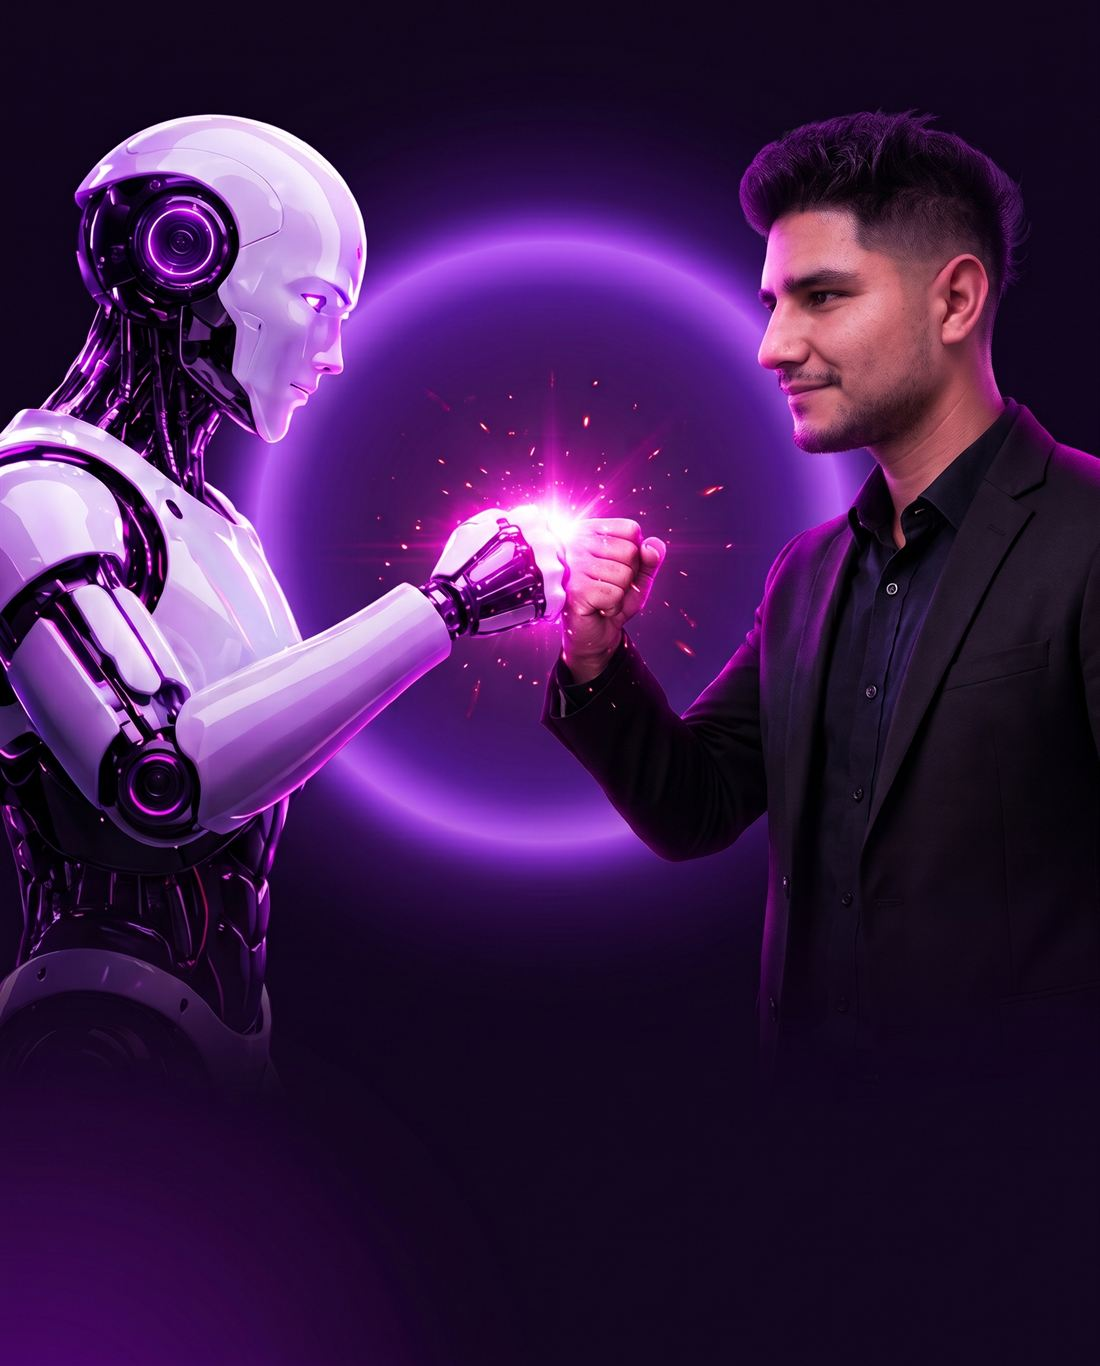
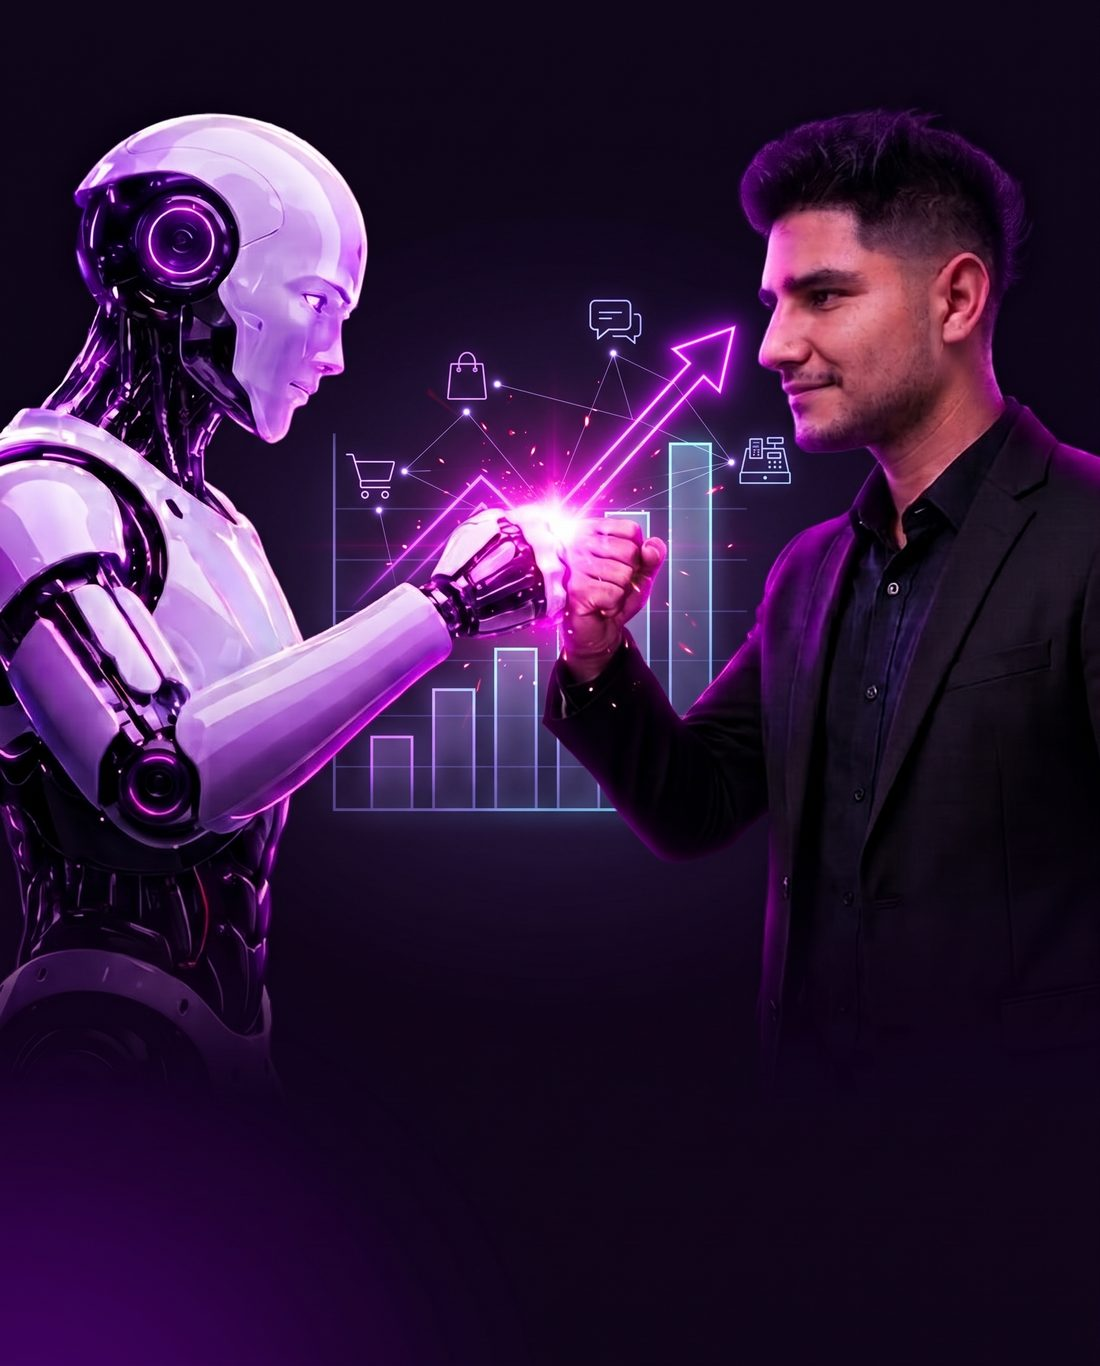
Punto de control antes de aplicar el estilo de los flyers
- Formulario conectado a la función inscripcion-evento (Supabase, schema cerrado
  evento_caeia). Sin dirección configurada solo simula en desarrollo.
- Función inscripcion-evento con validación, duplicados, campo trampa y límite por IP.
- Imagen del hero reemplazada por la versión nueva del flyer.

diff --git a/supabase/functions/inscripcion-evento/index.ts b/supabase/functions/inscripcion-evento/index.ts
@@ -1,0 +1,153 @@
+// Edge Function: recibe las inscripciones al evento del 18/11/2026 y las guarda en el schema
+// cerrado `evento_caeia` del proyecto Sistema NIKI. NO toca `public` ni nada de CAEIA.
+//
+// Despliegue (solo cuando Axel lo pida): verify_jwt = false, porque la página es pública y no lleva
+// ninguna clave en el navegador. Variables de entorno (Secrets de la función):
+//   - SUPABASE_DB_URL      → la pone Supabase sola.
+//   - ALLOWED_ORIGINS      → direcciones desde las que se acepta el formulario, separadas por coma
+//                            (ej.: https://evento.caeia.app). Sin esto solo acepta localhost.
+//   - IP_SALT              → texto secreto largo y al azar, para guardar un hash de la IP y no la IP.
+//   - RATE_LIMIT_MAX       → (opcional) intentos por IP cada 10 minutos. Por defecto 30.
+//
+// Por qué conexión directa y no supabase-js: el schema `evento_caeia` no está expuesto a la API
+// (cambiar eso afectaría a CAEIA), así que se escribe con SQL directo y consultas parametrizadas.
+
+import postgres from 'npm:postgres@3.4.5'
+
+const TIPOS = ['Comerciante', 'Monotributista', 'Responsable Inscripto', 'Contador/a', 'Otro']
+const FACTURAS = ['No facturo', 'Menos de 10', 'Entre 10 y 50', 'Más de 50']
+const COMO = [
+  'Desde el portal de ARCA',
+  'Con una planilla de Excel',
+  'Con otro sistema o app',
+  'Me factura mi contador',
+  'Otra forma',
+]
+
+const MAX_BODY = 8_000
+const RATE_WINDOW_MIN = 10
+const RATE_MAX = Number(Deno.env.get('RATE_LIMIT_MAX') ?? '30') || 30
+
+const ALLOWED_ORIGINS = (
+  Deno.env.get('ALLOWED_ORIGINS') ??
+  'http://localhost:5173,http://127.0.0.1:5173,http://localhost:4173,http://127.0.0.1:4173'
+)
+  .split(',')
+  .map((s) => s.trim().replace(/\/$/, ''))
+  .filter(Boolean)
+
+const sql = postgres(Deno.env.get('SUPABASE_DB_URL')!, {
+  max: 1,
+  prepare: false,
+  idle_timeout: 20,
+  connect_timeout: 10,
+})
+
+function corsHeaders(origin: string | null): Record<string, string> {
+  const h: Record<string, string> = {
+    'Content-Type': 'application/json; charset=utf-8',
+    'Cache-Control': 'no-store',
+    Vary: 'Origin',
+  }
+  if (origin && ALLOWED_ORIGINS.includes(origin)) {
+    h['Access-Control-Allow-Origin'] = origin
+    h['Access-Control-Allow-Methods'] = 'POST, OPTIONS'
+    h['Access-Control-Allow-Headers'] = 'Content-Type'
+    h['Access-Control-Max-Age'] = '600'
+  }
+  return h
+}
+
+function reply(status: number, body: unknown, origin: string | null) {
+  return new Response(status === 204 ? null : JSON.stringify(body), { status, headers: corsHeaders(origin) })
+}
+
+// Saca caracteres de control (Postgres no acepta el \u0000) y recorta.
+function clean(value: unknown, max: number, keepNewlines = false): string {
+  if (typeof value !== 'string') return ''
+  const re = keepNewlines ? /[\u0000-\u0009\u000b-\u001f\u007f]/g : /[\u0000-\u001f\u007f]/g
+  return value.replace(re, ' ').replace(/[ \t]+/g, ' ').trim().slice(0, max)
+}
+
+async function sha256(text: string): Promise<string> {
+  const buf = await crypto.subtle.digest('SHA-256', new TextEncoder().encode(text))
+  return Array.from(new Uint8Array(buf), (b) => b.toString(16).padStart(2, '0')).join('')
+}
+
+Deno.serve(async (req) => {
+  const origin = req.headers.get('origin')?.replace(/\/$/, '') ?? null
+
+  // Si llega con un Origin que no es el de la página, se rechaza (el navegador ya lo bloquea; esto lo hace explícito).
+  if (origin && !ALLOWED_ORIGINS.includes(origin)) return reply(403, { ok: false, error: 'origen' }, null)
+  if (req.method === 'OPTIONS') return reply(204, null, origin)
+  if (req.method !== 'POST') return reply(405, { ok: false, error: 'metodo' }, origin)
+
+  // --- Leer y validar el cuerpo (nada de esto toca la base) ---
+  const raw = await req.text()
+  if (raw.length > MAX_BODY) return reply(413, { ok: false, error: 'tamano' }, origin)
+  let b: Record<string, unknown>
+  try {
+    const parsed = JSON.parse(raw)
+    if (parsed === null || typeof parsed !== 'object' || Array.isArray(parsed)) throw new Error('forma')
+    b = parsed as Record<string, unknown>
+  } catch {
+    return reply(400, { ok: false, error: 'json' }, origin)
+  }
+
+  // Campo trampa: las personas no lo ven; los bots lo completan. Se responde "ok" sin guardar nada.
+  if (typeof b.website === 'string' && b.website.trim() !== '') return reply(200, { ok: true }, origin)
+
+  const nombre = clean(b.nombre, 120)
+  const whatsapp = clean(b.whatsapp, 20).replace(/\s/g, '')
+  const email = clean(b.email, 254).toLowerCase()
+  const tipo = clean(b.tipo, 40)
+  const rubro = clean(b.rubro, 120) || null
+  const facturas = clean(b.facturas, 40)
+  const como = clean(b.como, 60)
+  const tarea = clean(b.tarea, 1000, true) || null
+  const origenRaw = clean(b.origen, 32).toLowerCase()
+  const origen = /^[a-z0-9_-]{1,32}$/.test(origenRaw) ? origenRaw : null
+  const consentimientoTexto = clean(b.consentimiento_texto, 2000)
+
+  const problemas: string[] = []
+  if (nombre.length < 2) problemas.push('nombre')
+  if (!/^\+54\d{10}$/.test(whatsapp)) problemas.push('whatsapp')
+  if (!/^[^\s@]+@[^\s@]+\.[^\s@]+$/.test(email)) problemas.push('email')
+  if (!TIPOS.includes(tipo)) problemas.push('tipo')
+  if (facturas && !FACTURAS.includes(facturas)) problemas.push('facturas')
+  if (como && !COMO.includes(como)) problemas.push('como')
+  if (b.consentimiento !== true) problemas.push('consentimiento')
+  if (consentimientoTexto.length < 20) problemas.push('consentimiento_texto')
+  if (problemas.length > 0) return reply(400, { ok: false, error: 'validacion', campos: problemas }, origin)
+
+  try {
+    // --- Límite de intentos por IP (se guarda un hash, no la IP) ---
+    const ip =
+      req.headers.get('cf-connecting-ip') ?? req.headers.get('x-forwarded-for')?.split(',')[0]?.trim() ?? 'desconocida'
+    const ipHash = await sha256(`${Deno.env.get('IP_SALT') ?? ''}|${ip}`)
+
+    await sql`delete from evento_caeia.intentos where created_at < now() - interval '1 day'`
+    const [{ n }] = await sql<{ n: number }[]>`
+      select count(*)::int as n from evento_caeia.intentos
+      where ip_hash = ${ipHash} and created_at > now() - make_interval(mins => ${RATE_WINDOW_MIN})`
+    if (n >= RATE_MAX) return reply(429, { ok: false, error: 'demasiados' }, origin)
+    await sql`insert into evento_caeia.intentos (ip_hash) values (${ipHash})`
+
+    // --- Guardar. Si el WhatsApp o el mail ya estaban, no se duplica y se responde igual que si fuera nuevo
+    //     (así nadie puede averiguar quién está anotado). ---
+    await sql`
+      insert into evento_caeia.inscripciones
+        (nombre, whatsapp, email, tipo, rubro, facturas_por_mes, como_factura_hoy, tarea_repetitiva,
+         origen, consentimiento, consentimiento_texto)
+      values
+        (${nombre}, ${whatsapp}, ${email}, ${tipo}, ${rubro}, ${facturas || null}, ${como || null}, ${tarea},
+         ${origen}, true, ${consentimientoTexto})
+      on conflict do nothing`
+
+    return reply(200, { ok: true }, origin)
+  } catch (err) {
+    // Nunca se registran los datos de la persona, solo el tipo de error.
+    console.error('inscripcion-evento: error al guardar', err instanceof Error ? err.name : 'desconocido')
+    return reply(500, { ok: false, error: 'servidor' }, origin)
+  }
+})

diff --git a/src/components/RegistrationForm.tsx b/src/components/RegistrationForm.tsx
@@ -60,6 +60,7 @@ export function RegistrationForm({ id }: { id: string }) {
   const [values, setValues] = useState<Values>(EMPTY)
   const [errors, setErrors] = useState<Errors>({})
   const [status, setStatus] = useState<'idle' | 'sending' | 'done'>('idle')
+  const [sendError, setSendError] = useState('')
   const origin = useMemo(() => new URLSearchParams(window.location.search).get('o') ?? '', [])
 
   const set = <K extends keyof Values>(key: K, value: Values[K]) => {
@@ -67,22 +68,66 @@ export function RegistrationForm({ id }: { id: string }) {
     if (key in errors) setErrors((prev) => ({ ...prev, [key]: undefined }))
   }
 
-  function onSubmit(ev: FormEvent) {
+  async function onSubmit(ev: FormEvent<HTMLFormElement>) {
     ev.preventDefault()
     const found = validate(values)
     setErrors(found)
+    setSendError('')
     if (Object.keys(found).length > 0) return
     setStatus('sending')
-    // PROTOTIPO: la inscripción todavía no se guarda en ningún lado. Acá va la llamada a Supabase.
-    // Al guardar, usar `+54${nationalNumber(values.whatsapp)}`. Ojo: los links wa.me de Argentina llevan 549 + número.
-    if (import.meta.env.DEV) {
-      console.info('[prototipo] inscripción simulada', {
-        ...values,
-        whatsapp: `+54${nationalNumber(values.whatsapp)}`,
-        origen: origin || null,
-      })
+
+    // Dirección de la función `inscripcion-evento` (ver .env.example). No lleva ninguna clave.
+    const endpoint = import.meta.env.VITE_INSCRIPCION_URL as string | undefined
+    // Campo trampa anti-bots: las personas no lo ven, así que va vacío.
+    const trap = new FormData(ev.currentTarget).get('website')
+
+    // Sin dirección configurada solo se simula en desarrollo. En la página publicada NUNCA se finge
+    // que se guardó: si falta la dirección, se muestra el error y no se pierde una inscripción en silencio.
+    if (!endpoint) {
+      if (import.meta.env.DEV) {
+        console.info('[desarrollo] inscripción simulada (falta VITE_INSCRIPCION_URL)', {
+          ...values,
+          whatsapp: `+54${nationalNumber(values.whatsapp)}`,
+          origen: origin || null,
+        })
+        window.setTimeout(() => setStatus('done'), 700)
+      } else {
+        setSendError(f.errors.send)
+        setStatus('idle')
+      }
+      return
     }
-    window.setTimeout(() => setStatus('done'), 700)
+
+    try {
+      const res = await fetch(endpoint, {
+        method: 'POST',
+        headers: { 'Content-Type': 'application/json' },
+        body: JSON.stringify({
+          nombre: values.nombre,
+          // Se guarda como +54 + 10 dígitos. Ojo: los links wa.me de Argentina llevan 549 + número.
+          whatsapp: `+54${nationalNumber(values.whatsapp)}`,
+          email: values.email,
+          tipo: values.tipo,
+          rubro: values.rubro,
+          facturas: values.facturas,
+          como: values.como,
+          tarea: values.tarea,
+          origen: origin,
+          consentimiento: values.consent,
+          // Se guarda el texto exacto que la persona aceptó.
+          consentimiento_texto: f.consent,
+          website: trap ?? '',
+        }),
+      })
+      if (res.ok) {
+        setStatus('done')
+        return
+      }
+      setSendError(res.status === 429 ? f.errors.tooMany : f.errors.send)
+    } catch {
+      setSendError(f.errors.send)
+    }
+    setStatus('idle')
   }
 
   if (status === 'done') {
@@ -242,6 +287,18 @@ export function RegistrationForm({ id }: { id: string }) {
         </label>
         {errors.consent && <span className="error">{errors.consent}</span>}
       </div>
+
+      {/* Campo trampa: fuera de pantalla y sin foco; si algo lo completa, es un bot. */}
+      <div className="hp" aria-hidden="true">
+        <label htmlFor={fid('website')}>No completar</label>
+        <input id={fid('website')} name="website" type="text" tabIndex={-1} autoComplete="off" />
+      </div>
+
+      {sendError && (
+        <p className="error error--send" role="alert">
+          {sendError}
+        </p>
+      )}
 
       <button className="btn btn--block" type="submit" disabled={sending}>
         {sending ? f.sending : f.submit}

diff --git a/src/content.ts b/src/content.ts
@@ -264,6 +264,9 @@ export const content = {
       email: 'Revisá el mail: parece que le falta algo.',
       emailRequired: 'Escribí tu mail.',
       consent: 'Necesitamos tu consentimiento para anotarte.',
+      // Errores al enviar (no son del llenado): se muestran sobre el botón.
+      send: 'No pudimos guardar tu inscripción. Probá de nuevo en un momento.',
+      tooMany: 'Hiciste muchos intentos seguidos. Esperá unos minutos y probá de nuevo.',
     },
     success: {
       title: 'Listo, {nombre}. Tu lugar está reservado.',

diff --git a/src/index.css b/src/index.css
@@ -578,6 +578,18 @@ select option {
   font-size: 13px;
   color: #fda4af;
 }
+.error--send {
+  margin: 0;
+  text-align: center;
+}
+/* Campo trampa anti-bots: fuera de la pantalla (no display:none, que algunos bots detectan). */
+.hp {
+  position: absolute;
+  left: -10000px;
+  width: 1px;
+  height: 1px;
+  overflow: hidden;
+}
 .check {
   display: flex;
   align-items: flex-start;
